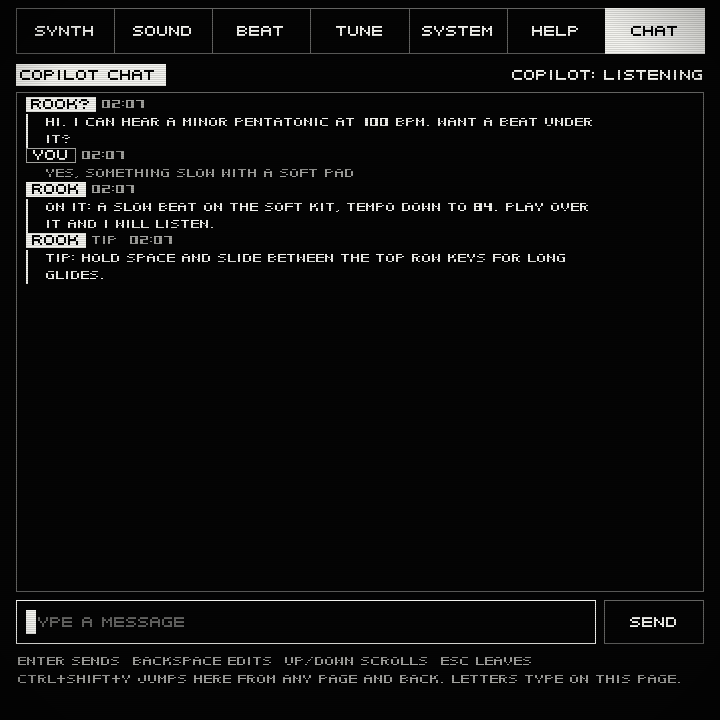
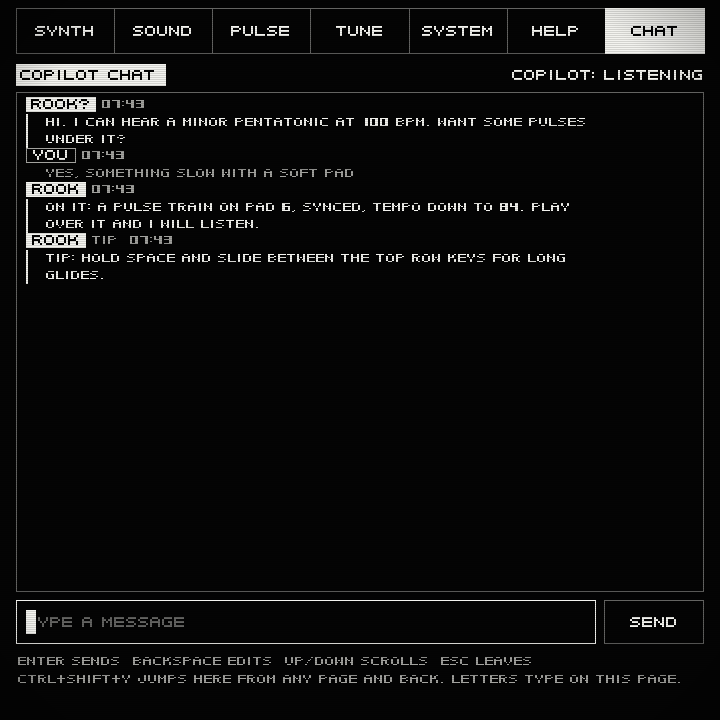
Docs and screenshots for the Pulse page: GUIDE chapter 8, README, CONTROL, STATUS 0.14.0

diff --git a/docs/STATUS.md b/docs/STATUS.md
@@ -1,14 +1,14 @@
 # Status — what works, what is unproven, what is missing
 
-Version 0.14.0, the Pulse page, 2026-11-15. On the way to 1.0 (a frequency-focused instrument) the Beat page is gone: its drum kits, step sequencer, kept beats, beat Rec / Play (`Ctrl`+`J`, `Ctrl`+`I`), the `beat` socket command, its help cards and tests. In its place the **Pulse** page has eight pulse pads (click, tick, noise burst, sine blip, gated tone, pulse train, sub thump, hiss; any pad any kind) with Tone, Length, Rate and Level, a picture of each pad's real sound, a strip of every hit of the last four seconds, and Loop / Latch / Sync / Type. Pad taps are recorded by the loop pedal (before, the pedal did not record the drum pads). Old state and session files still load; their beat, kept beats and kit are ignored. **Nobody has heard the pulse sounds yet**: every claim about them below is measured offline. Tests: SEE_ENGINE engine, SEE_APP app checks.
+Version 0.14.0, the Pulse page, 2026-11-15. On the way to 1.0 (a frequency-focused instrument) the Beat page is gone: its drum kits, step sequencer, kept beats, beat Rec / Play (`Ctrl`+`J`, `Ctrl`+`I`), the `beat` socket command, its help cards and tests. In its place the **Pulse** page has eight pulse pads (click, tick, noise burst, sine blip, gated tone, pulse train, sub thump, hiss; any pad any kind) with Tone, Length, Rate and Level, a picture of each pad's real sound, a strip of every hit of the last four seconds, and Loop / Latch / Sync / Type. Pad taps are recorded by the loop pedal (before, the pedal did not record the drum pads). Old state and session files still load; their beat, kept beats and kit are ignored. **Nobody has heard the pulse sounds yet**: every claim about them below is measured offline. Tests: 434 engine, 340 app checks (one of them, "audio backend opened", passes only with a real audio backend).
 
 Version 0.13.0 with the Track and Backing pages removed, 2026-11-15. On the way to 1.0 the Track page (clips, lanes, chop, sound picker, lane mixer, export) and the Backing page (styles, arpeggios, 7th chords, the chord progression, backing volume) were taken out with their engine code, keys, socket commands, help cards and tests. The chord pads on the Synth page stay, with two modes, Hold and Drone, and Stop / Play; Progression mode went with the Backing page. Old session and state files still load; their track and progression are ignored. Tests: 398 engine, 345 app checks. The history below is kept as it was written. (0.12.1, 2026-11-14, was 0.12.1 is 0.12.0 plus bug fixes: every armed mode (Delete, Store, Erase, track remove) clears when the page changes by any route; the key test panel swallows touches; the favourites page button goes back and forward; saving a favourite under an existing name updates it; one tempo step (1 bpm) on every page; the Backing step control is labelled Arp only because Pulse ignores it; docs corrected. Tests: 522 engine, 343 app checks. 0.12.0 is 0.11.0 plus guided help: the copilot can ring the controls it is talking about, the player answers from a chat dock on any page, and the Help page is redesigned around both. 0.11.0 was 0.10.0 twice over, merged: kept beats on the Beat page — + New starts an empty beat and keeps the others, switched on the next bar line — and a Chat page with a control socket, so an AI copilot can play and edit the app live and talk with the player. 0.9.0 was 0.8.1 plus a lane mixer on the Track page: a level, mute, solo and meter for each of the four lanes, saved with the track and heard in an export. 0.8.1 was 0.8.0 plus a fix: the scope no longer takes a whole processor core to draw while sound plays. 0.8.0: 0.7.0 plus a sound picker on the Track page: a placed clip can play as one of eighteen new Keys, Guitar and Bass sounds, any of your own sounds or another kit, with an octave shift. 0.7.0 was 0.6.0 plus a Track page for arranging kept beats, chords and loops on lanes, with chop, cycle and export; the tabs now start with Track and the Play page is called Synth. 0.6.0 added the Beat page and Play last, 0.5.0 five sine-based "dream" sounds, 0.4.0 the Glitch touch-pad mapping). "Tested" below means an automated test measured it; it does **not** mean a
 person heard it or pressed a physical key. Those checks are listed separately.
 
 ## Working and covered by automated tests
 
-`vrequency_tests` renders audio offline and measures it (398 checks). `vrequency --selftest` drives the real
-application with real key and touch events while the real audio thread runs (345 checks; one of them, "audio backend opened", can only pass with a real audio backend).
+`vrequency_tests` renders audio offline and measures it (434 checks). `vrequency --selftest` drives the real
+application with real key and touch events while the real audio thread runs (340 checks; one of them, "audio backend opened", can only pass with a real audio backend).
 
 | Area | What the tests establish |
 |---|---|
